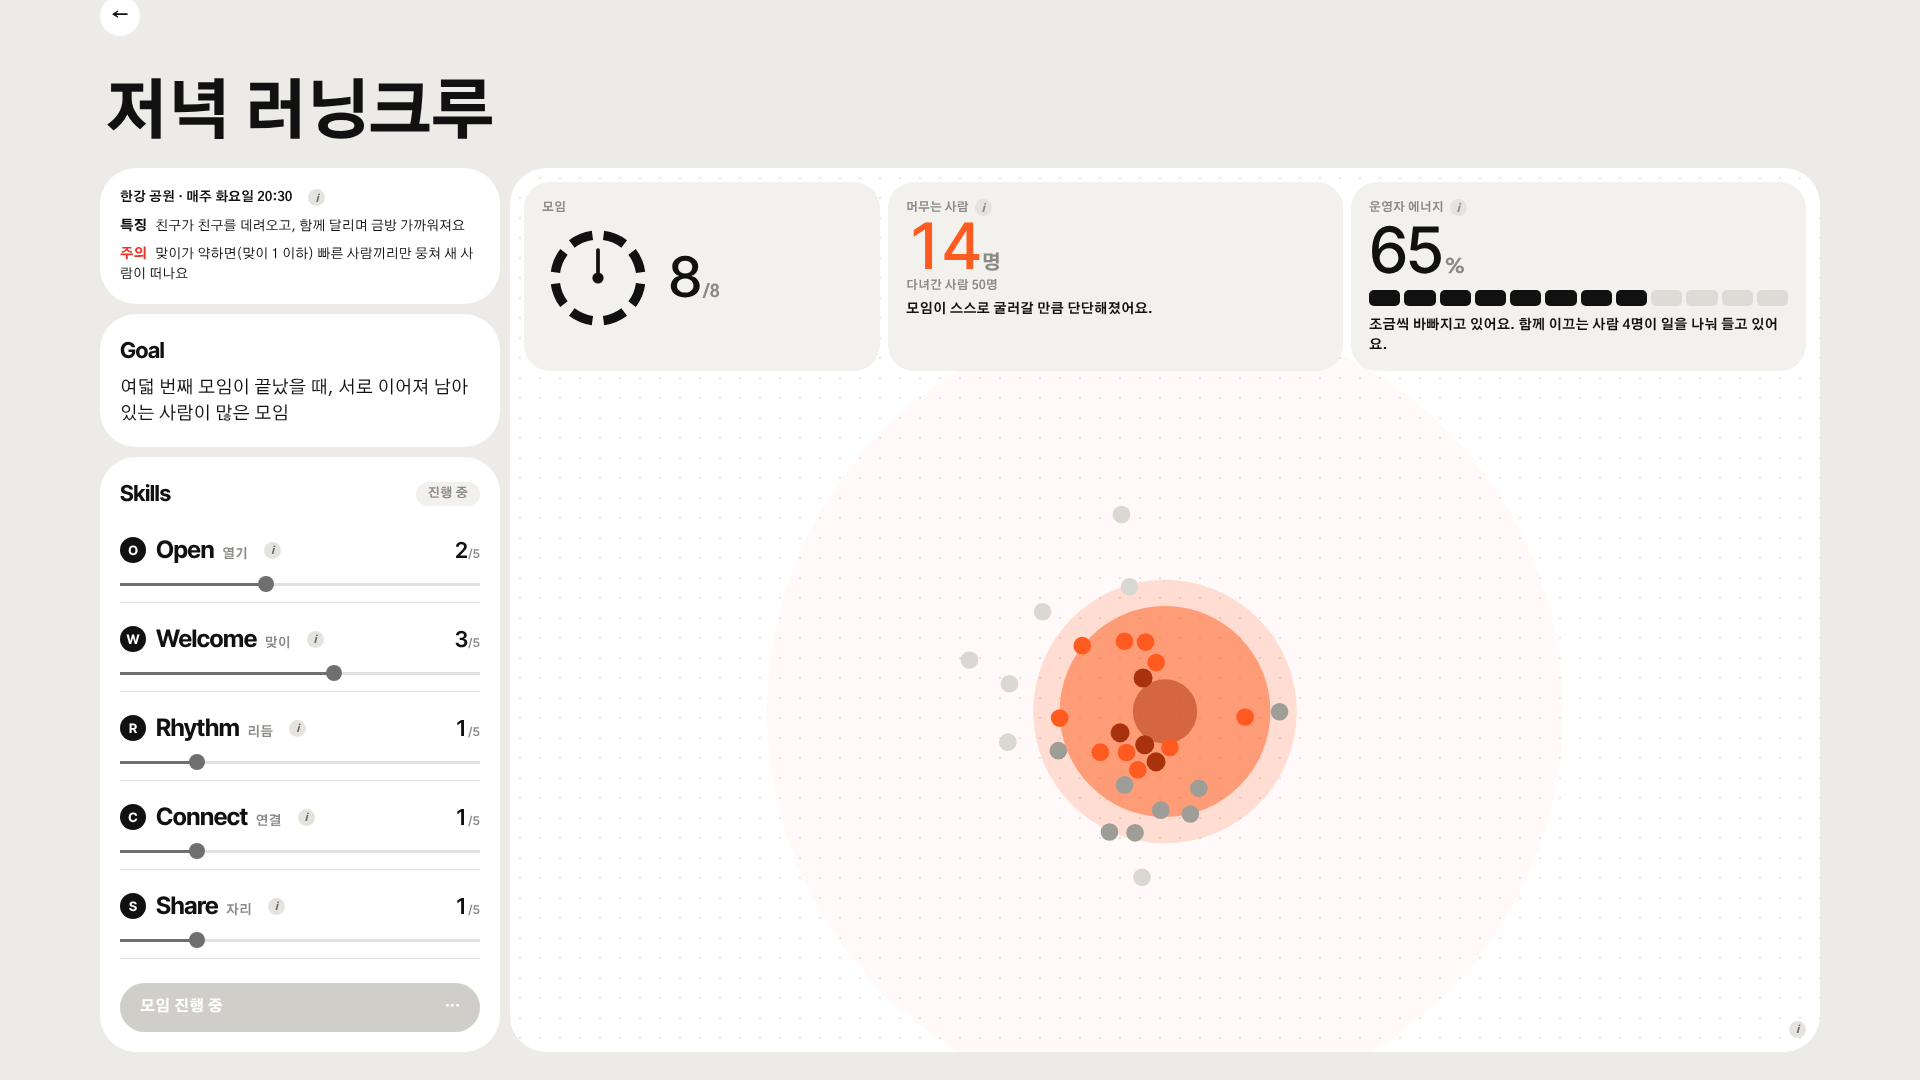
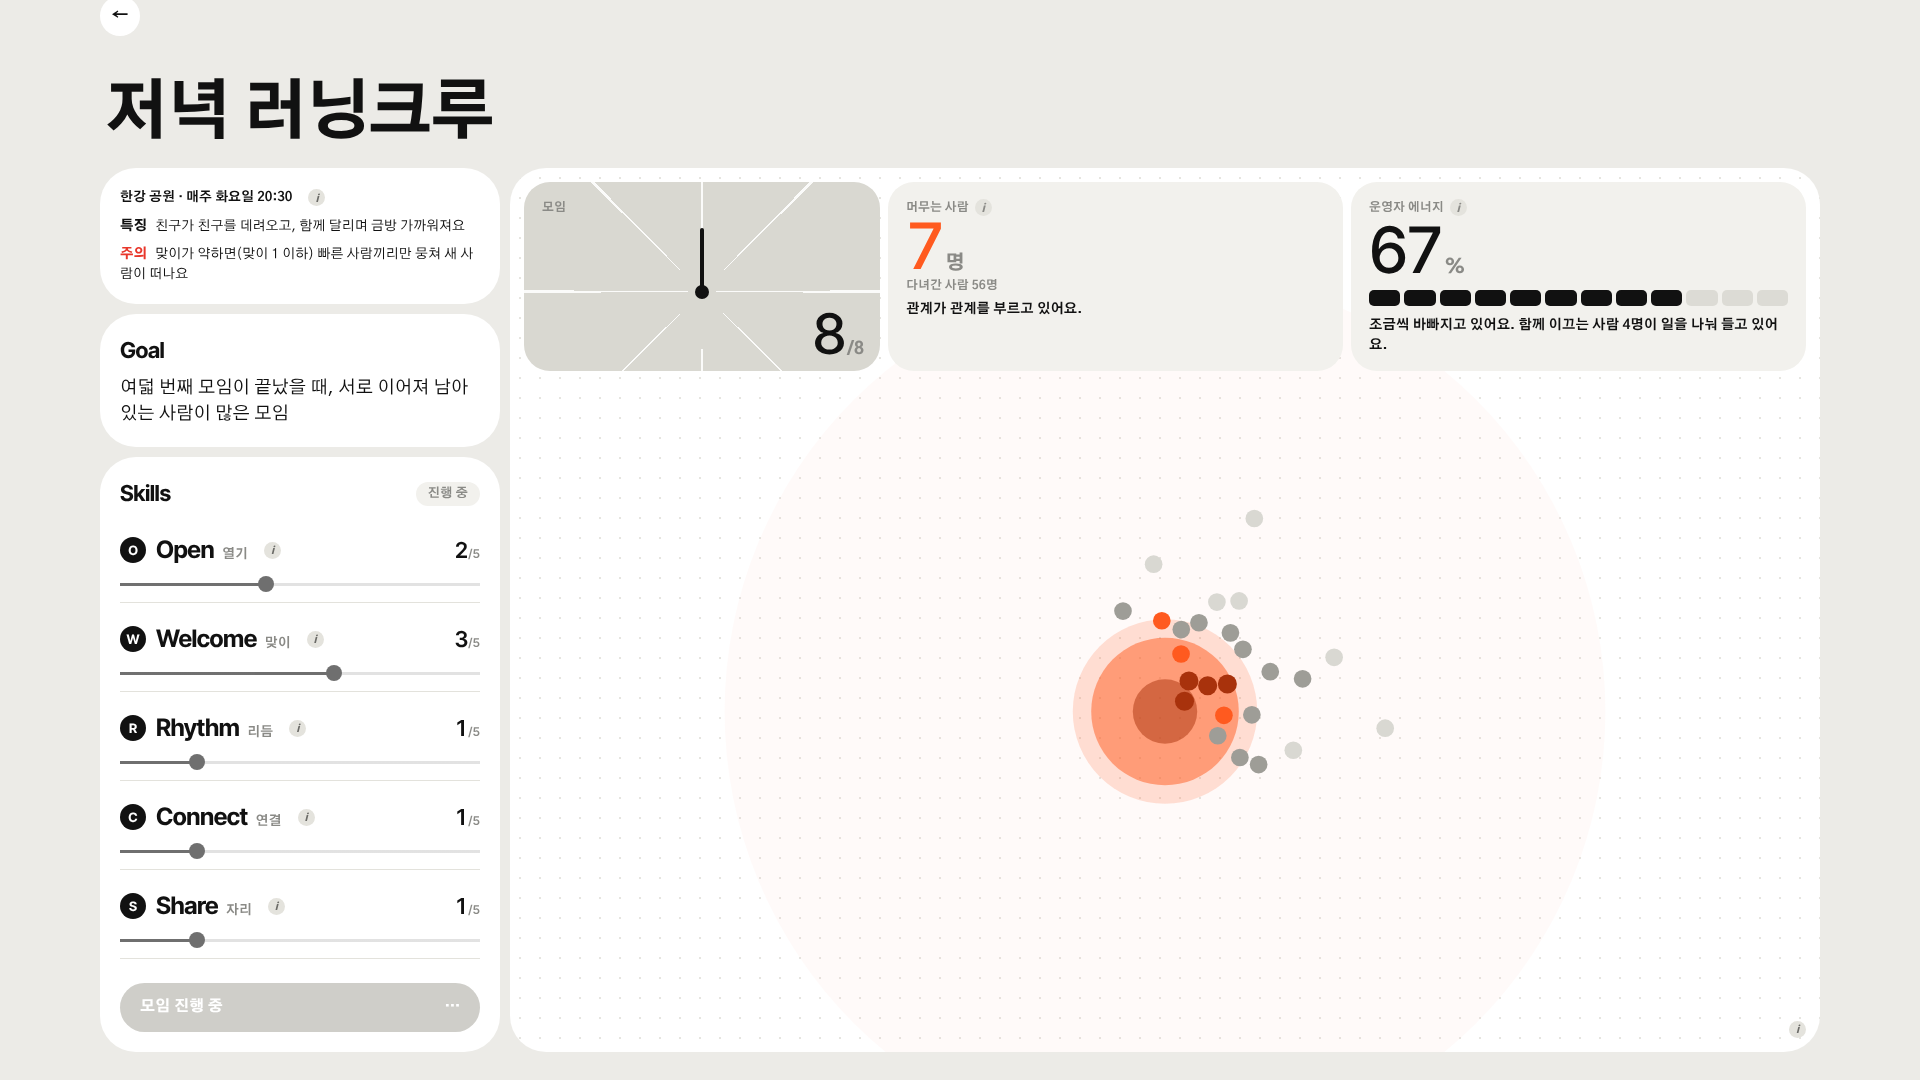
게임 시안: 모임 상자 자체를 시계로
Claude-Session: https://claude.ai/code/session_01SaCvLutmawHZS3kxPWYxw7

diff --git a/thesis/game/moim.v07.src.html b/thesis/game/moim.v07.src.html
@@ -686,6 +686,18 @@ body{background:var(--page)}
 .mclock svg{width:clamp(84px,6.4vw,112px);height:auto;flex:none}
 .mclock .hero-n{font-size:clamp(40px,3.6vw,56px)}
 .ovbar{grid-template-columns:minmax(0,.9fr) minmax(0,1.15fr) minmax(0,1.15fr)}
+
+/* ───────── 모임 상자 자체가 시계: 12시부터 시계 방향으로 채워지고 바늘이 돌아요 ───────── */
+@property --p{syntax:'<percentage>';inherits:false;initial-value:0%}
+.ovbar .ov.ovclock,.ovclock{position:relative;overflow:hidden;--a:0deg;
+  background:repeating-conic-gradient(from -.5deg at 50% 58%,rgba(255,255,255,.9) 0 1deg,transparent 1deg 45deg),
+    conic-gradient(from 0deg at 50% 58%,#d9d8d1 0 var(--p),var(--cell) var(--p) 100%);
+  transition:--p .6s ease}
+.ovbar .ov.ovclock{top:auto;right:auto;left:auto;bottom:auto;width:auto;align-self:stretch;min-height:150px}
+.ovclock small{position:relative;z-index:2}
+.ovclock .hand{position:absolute;left:50%;top:58%;width:4px;height:34%;background:var(--ink);border-radius:2px;transform-origin:50% 0;transform:translateX(-50%) rotate(calc(var(--a) + 180deg));transition:transform .6s ease;z-index:1}
+.ovclock::after{content:"";position:absolute;left:50%;top:58%;width:14px;height:14px;border-radius:50%;background:var(--ink);transform:translate(-50%,-50%);z-index:1}
+.ovclock .hero-n{position:absolute;right:16px;bottom:12px;z-index:2;font-size:clamp(40px,3.4vw,56px)}
 @media (prefers-reduced-motion:reduce){*{transition:none!important;animation:none!important}}
 </style>
 
@@ -1083,7 +1095,7 @@ function renderTool(){
     <div class="panel" id="panel"></div>
     <div class="canvas-wrap"><canvas id="cv" role="img" aria-label="모임 현장: 바깥에서 안쪽으로 처음 온 사람, 다시 온 사람, 자리 잡은 사람, 함께 이끄는 사람"></canvas>
       <div class="c-top"><span><span class="latin">${T.en}</span> · ${T.name} · <span id="mt"></span></span></div>
-      <div class="ovbar" id="ovbar"><div class="ov ov-r"><small>모임</small><div class="mclock" id="ovM"></div></div>
+      <div class="ovbar" id="ovbar"><div class="ov ov-r ovclock" id="ovR"><small>모임</small><i class="hand" aria-hidden="true"></i><b class="hero-n" id="ovM"></b></div>
       <div class="ov ov-l"><small>머무는 사람${info('파란 점: 자리를 잡았거나 함께 이끄는 사람이에요. 한 번 다녀간 사람과 달리 모임에 계속 머물러요.')}</small><b class="hero-n" id="ovN"></b><span id="ovT"></span><p class="msg" id="ovMsg"></p></div>
       <div class="ov ov-e" id="ovE"></div></div>
       <div class="c-cap"><span id="cap"></span><span class="c-key2">${info(`바깥에서 안쪽으로 ${STAGE_NAMES.join(' → ')}. 선은 사람 사이의 관계예요. 가운데는 모임이 함께하는 활동이에요. 사람들은 운영자가 아니라 활동을 가운데 두고 모여요.`)}</span>
@@ -1141,7 +1153,8 @@ function renderPanel(){
   document.getElementById('ovN').innerHTML=`${rooted}<em>명</em>`;
   document.getElementById('ovT').textContent=`다녀간 사람 ${st.total+2}명`;
   document.getElementById('ovMsg').textContent=relMsg(rooted);
-  document.getElementById('ovM').innerHTML=`${clockSVG(st.meeting)}<b class="hero-n">${st.meeting}<em>/${MEETINGS}</em></b>`;
+  {const oc=document.getElementById('ovR');oc.style.setProperty('--p',(st.meeting/MEETINGS*100)+'%');oc.style.setProperty('--a',(st.meeting*360/MEETINGS)+'deg');oc.setAttribute('aria-label',`모임 ${st.meeting}번째 / ${MEETINGS}번`);}
+  document.getElementById('ovM').innerHTML=`${st.meeting}<em>/${MEETINGS}</em>`;
   document.getElementById('ovE').innerHTML=`<small>운영자 에너지${info('스킬을 많이 쓸수록 운영자가 바빠지고, 함께 이끄는 사람이 생기면 덜 지쳐요.')}</small><b class="hero-n ${e<30?'low':''}">${e}<em>%</em></b>${gauge(e)}<p class="msg">${energyMsg(e,leaders)}</p>`;}
   document.getElementById('cap').innerHTML=st.phase==='alloc'?'왼쪽에서 스킬 포인트를 나누고 시작을 누르세요.':lv?'4번의 모임이 끝났어요. 포인트를 더 나눠 보세요.':(st.cap||(st.last?`새로 온 사람 <b>${st.last.n}</b> · 다시 온 사람 <b>${st.last.back}</b> · 자리 잡은 사람 <b>${st.last.settle}</b> · 떠난 사람 <b>${st.last.gone}</b>`:''));
   const e=Math.round(st.E);

diff --git a/thesis/26-game-prototype.md b/thesis/26-game-prototype.md
@@ -188,3 +188,4 @@
 - v2.9: 시뮬레이션 제목 옆 "RUN · TYPE B" 삭제
 - v2.10: 시작 버튼 "모임 8번 시작" → "Start"
 - v2.11: 모임 회차를 시계로: 여덟 칸이 12시부터 시계 방향으로 차고 바늘이 지금 회차를 가리킴(바늘은 0.6초 동안 움직임), 옆에 3/8 숫자
+- v2.12: 모임 상자 자체를 시계로: 상자 배경이 12시부터 시계 방향으로 여덟 칸씩 짙어지고(옅은 흰 선으로 칸 구분), 가운데 바늘이 지금 회차를 가리킴, 오른쪽 아래 3/8
